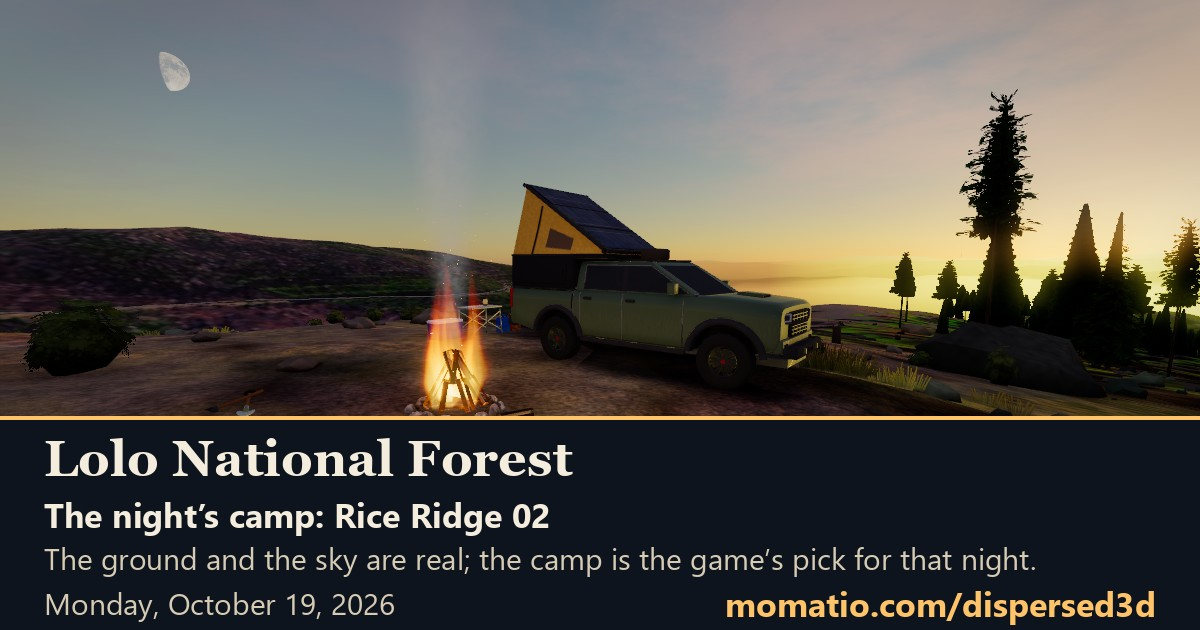
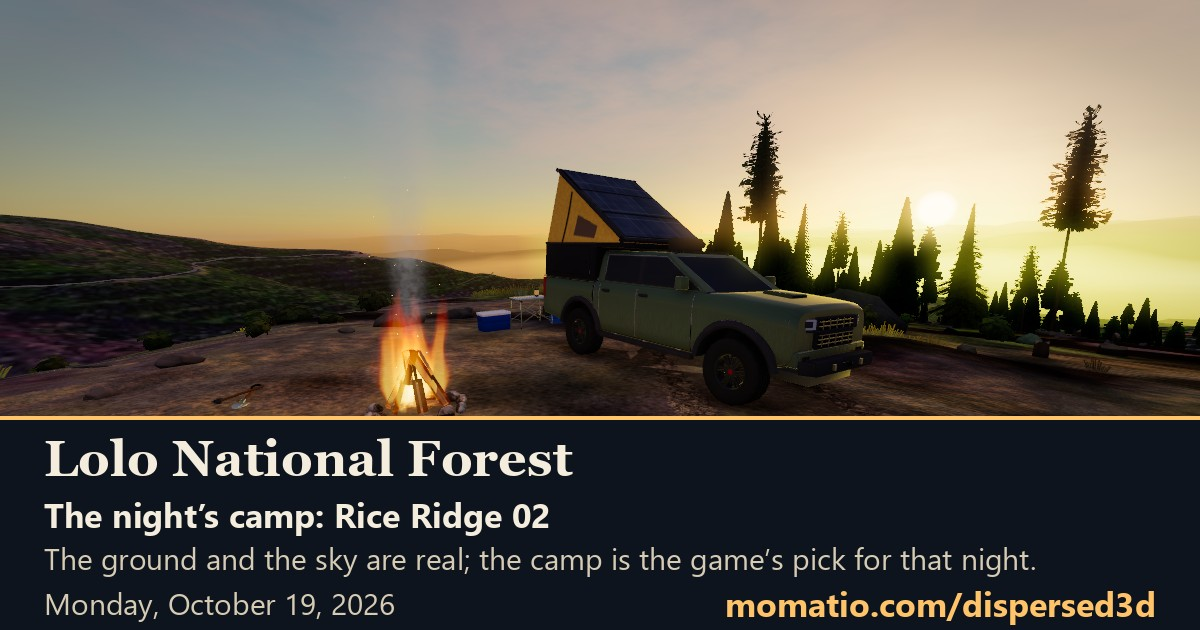
Release 2026-10-19b: camps off the road, on level ground
Claude-Session: https://claude.ai/code/session_01JJzT1DsoBWtYVWVcn1Rthj

diff --git a/README.md b/README.md
@@ -33,12 +33,12 @@ This is a game laid over real places, and the real places do most of the work. H
 
 ## What's new
 
-**October 19, 2026, early morning: The real wetlands on the map, and rain that sounds like where you are**
+**October 19, 2026, morning: Camps off the road, on level ground**
 
-- Real wetlands on the map: zoom in and the wetlands the U.S. Fish and Wildlife Service mapped from aerial photographs show hatched in blue-green, with a key that says whose map it is. Their edges are approximate, and ground that looks dry can still be one
-- The map zooms: Zoom in, Zoom out and Find me, down to about half a mile across. On a computer the mouse wheel zooms and a drag moves the map; on a phone, pinch
-- Rain by place: in the truck or the rooftop tent it is the downpour on the roof over you, with drips off the trees; out on foot it is the same rain, more open and a little softer. Light rain stays light
-- Behind the scenes: more for AI players, like seeing an AI's reasons as it plays and taking the wheel back from it. It is not open yet
+- Camps are off the road now: every camp has a spot where you would really park, and a Self Drive rolls down a short two-track spur and stops there, instead of parking on the road beside it
+- A dispersed camp keeps the spot its record gives when that is 80 feet or more off the road; one closer than that moves to about 100 feet off, on dry, open ground away from other roads
+- The spot is picked for level ground, scored the way the level card reads the truck's four wheels, so the card can usually help you level up
+- Developed campgrounds keep their own loop road, and camps far out in the desert stay exactly where the record has them
 
 [Every release, in the changelog](https://github.com/davelalande/dispersed3d-progress/blob/main/CHANGELOG.md)
 

diff --git a/CHANGELOG.md b/CHANGELOG.md
@@ -2,6 +2,13 @@
 
 Every release of the live game, newest first. Play it at **[momatio.com/dispersed3d](https://momatio.com/dispersed3d/)**.
 
+## October 19, 2026, morning: Camps off the road, on level ground
+
+- Camps are off the road now: every camp has a spot where you would really park, and a Self Drive rolls down a short two-track spur and stops there, instead of parking on the road beside it
+- A dispersed camp keeps the spot its record gives when that is 80 feet or more off the road; one closer than that moves to about 100 feet off, on dry, open ground away from other roads
+- The spot is picked for level ground, scored the way the level card reads the truck's four wheels, so the card can usually help you level up
+- Developed campgrounds keep their own loop road, and camps far out in the desert stay exactly where the record has them
+
 ## October 19, 2026, early morning: The real wetlands on the map, and rain that sounds like where you are
 
 - Real wetlands on the map: zoom in and the wetlands the U.S. Fish and Wildlife Service mapped from aerial photographs show hatched in blue-green, with a key that says whose map it is. Their edges are approximate, and ground that looks dry can still be one
